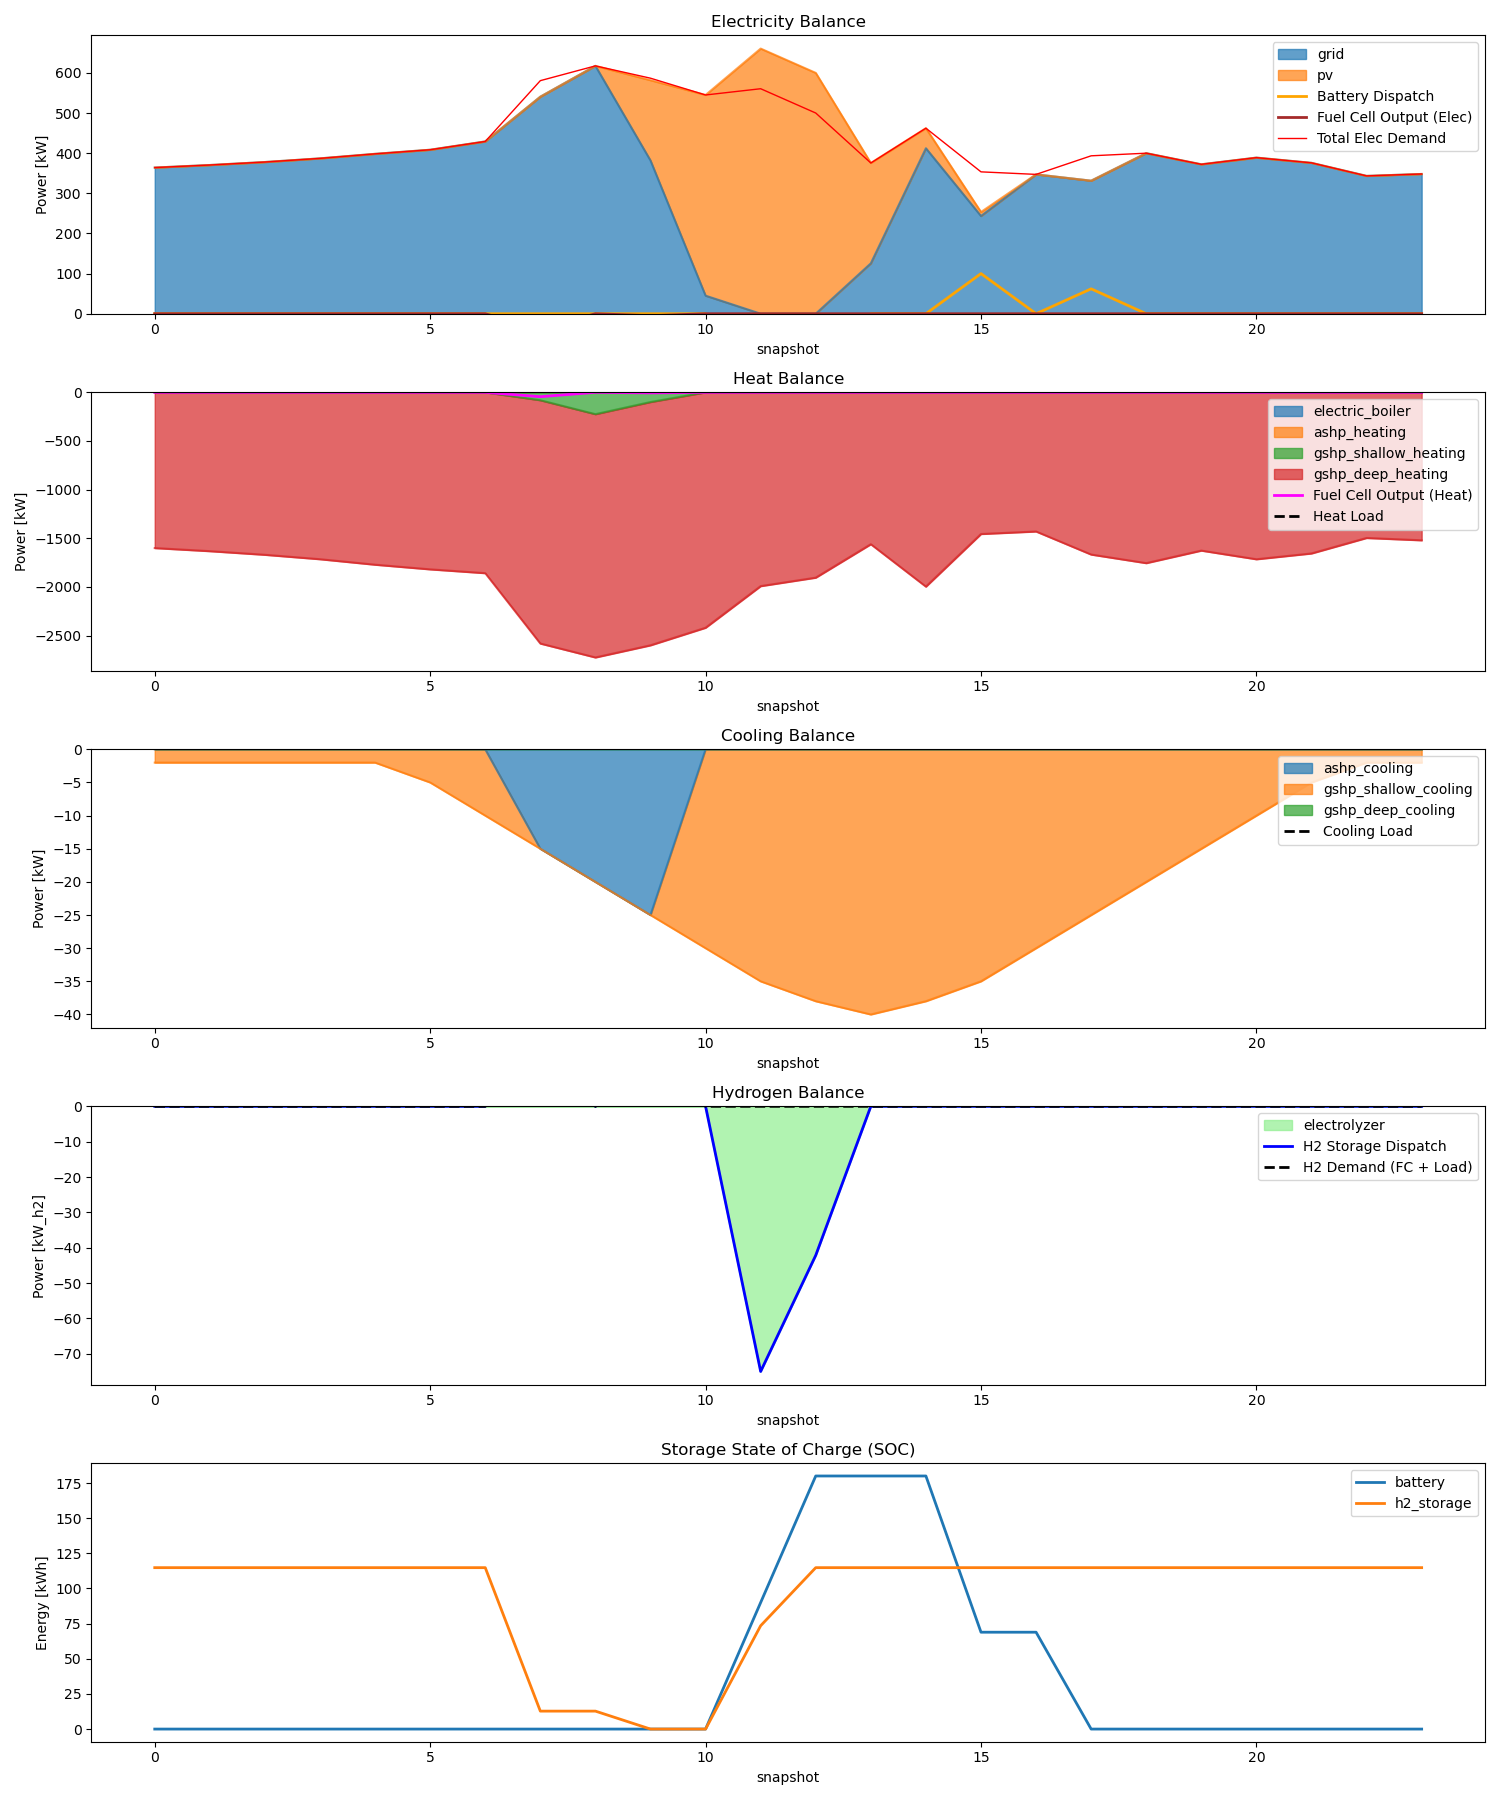
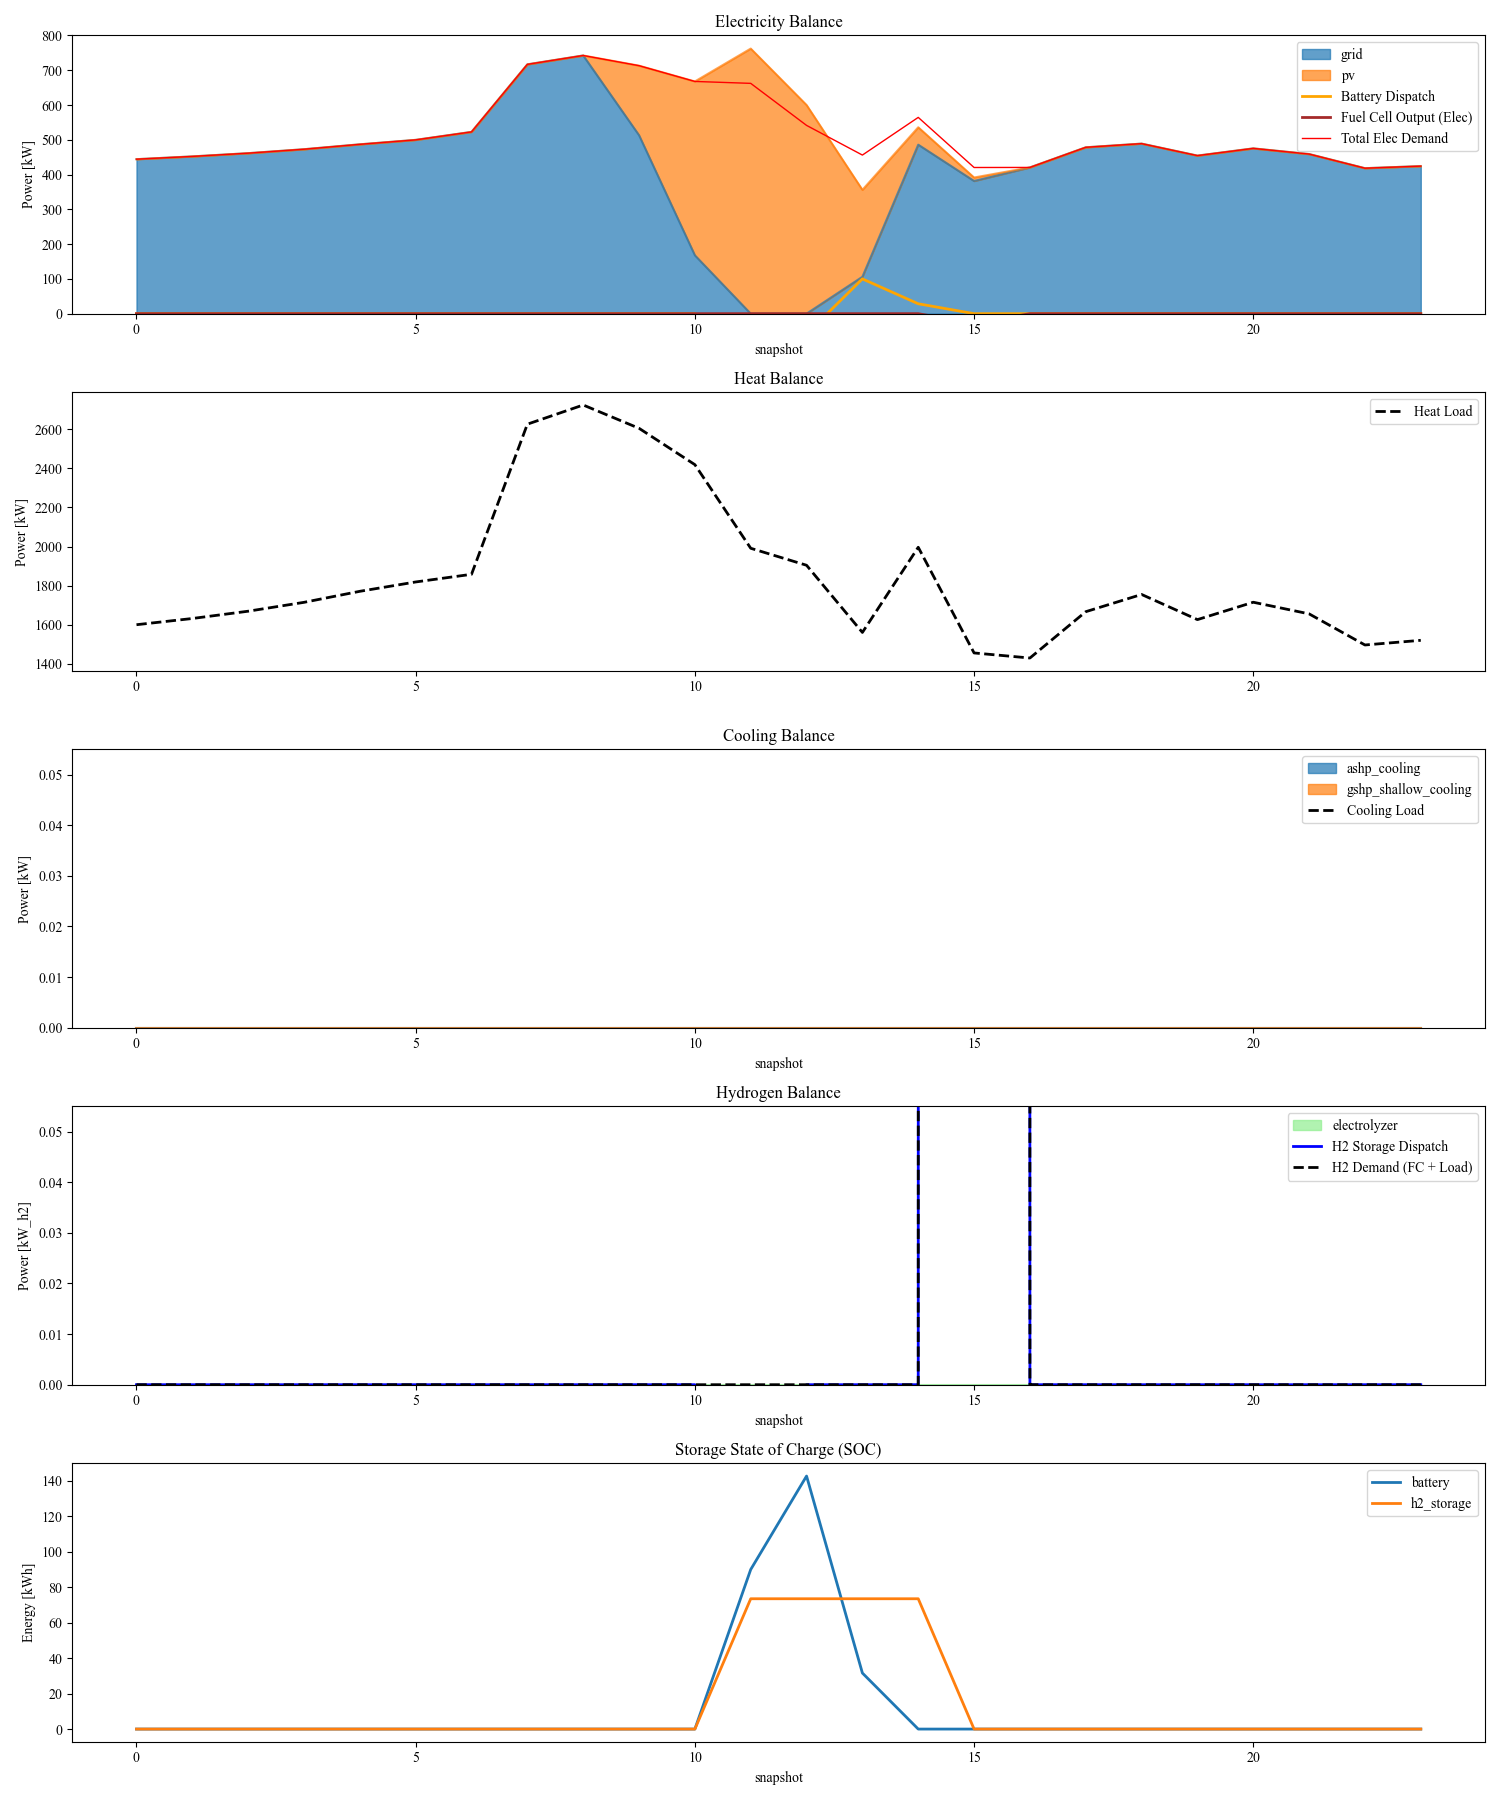
修改bug，总结工况

diff --git a/ies_simulation.py b/ies_simulation.py
@@ -170,14 +170,52 @@ class IESModel:
                 print(f"All optimization attempts failed: {e}")
         return success
 
+    def get_all_results(self):
+        """
+        汇总所有设备的运行结果
+        :return: 包含多个结果 DataFrame 的字典
+        """
+        results = {}
+        
+        # 1. 负荷数据
+        results['Loads'] = self.n.loads_t.p
+        
+        # 2. 发电机数据 (PV, Grid)
+        results['Generators'] = self.n.generators_t.p
+        
+        # 3. 链路数据 (EB, HP, Ely, FC)
+        # 包含输入 p0 和输出 p1 (以及 FC 的 p2)
+        links_res = pd.concat([
+            self.n.links_t.p0.add_suffix('_input'),
+            self.n.links_t.p1.add_suffix('_output')
+        ], axis=1)
+        if not self.n.links_t.p2.empty:
+            links_res = pd.concat([links_res, self.n.links_t.p2.add_suffix('_output2')], axis=1)
+        results['Links'] = links_res
+        
+        # 4. 储能数据 (Battery, H2 Storage)
+        results['Storage_Units'] = self.n.storage_units_t.p
+        results['Storage_SOC'] = self.n.storage_units_t.state_of_charge
+        
+        # 5. 母线电价 (边际成本)
+        results['Bus_Marginal_Prices'] = self.n.buses_t.marginal_price
+        
+        return results
+
     def plot_results(self, save_path='ies_results.png', show=True):
+        # 设置全局字体为 Times New Roman
+        plt.rcParams['font.family'] = 'Times New Roman'
+        plt.rcParams['text.color'] = 'black'
+        plt.rcParams['axes.labelcolor'] = 'black'
+        plt.rcParams['xtick.color'] = 'black'
+        plt.rcParams['ytick.color'] = 'black'
+        
         fig = plt.figure(figsize=(15, 18))
         
         # 子图 1: 电力平衡
-        # ... (保持之前的绘图代码)
         plt.subplot(5, 1, 1)
         if not self.n.generators_t.p.empty:
-            self.n.generators_t.p.plot.area(ax=plt.gca(), alpha=0.7)
+            self.n.generators_t.p.clip(lower=0).plot.area(ax=plt.gca(), alpha=0.7)
         if not self.n.storage_units_t.p.empty and 'battery' in self.n.storage_units_t.p.columns:
             self.n.storage_units_t.p['battery'].plot(ax=plt.gca(), color='orange', label='Battery Dispatch', linewidth=2)
         if not self.n.links_t.p1.empty and 'fuel_cell' in self.n.links_t.p1.columns:
@@ -203,15 +241,23 @@ class IESModel:
         if not self.n.links_t.p1.empty:
             # 电锅炉和各类热泵制热
             hp_heating_cols = [f"{prefix}_heating" for prefix in ['ashp', 'gshp_shallow', 'gshp_deep']]
+            # 增加对 p1 实际内容的检查
             cols = [c for c in (['electric_boiler'] + hp_heating_cols) if c in self.n.links_t.p1.columns]
             if cols:
-                self.n.links_t.p1[cols].plot.area(ax=plt.gca(), alpha=0.7)
+                # 获取 p1 数据并过滤极微小负值
+                heat_output_p1 = self.n.links_t.p1[cols].clip(lower=0)
+                if not heat_output_p1.empty and heat_output_p1.sum().sum() > 0.1:
+                    heat_output_p1.plot.area(ax=plt.gca(), alpha=0.7)
         
-        # 增加燃料电池产热
+        # 增加燃料电池产热 (p2)
         if not self.n.links_t.p2.empty and 'fuel_cell' in self.n.links_t.p2.columns:
-            self.n.links_t.p2['fuel_cell'].plot(ax=plt.gca(), color='magenta', label='Fuel Cell Output (Heat)', linewidth=2)
+            fc_heat = self.n.links_t.p2['fuel_cell'].clip(lower=0)
+            if fc_heat.sum() > 0.1:
+                fc_heat.plot(ax=plt.gca(), color='magenta', label='Fuel Cell Output (Heat)', linewidth=2)
 
-        plt.plot(self.n.loads_t.p_set['heat_load'], 'k--', label='Heat Load', linewidth=2)
+        # 始终绘制负荷线
+        heat_load = self.n.loads_t.p['heat_load'] if 'heat_load' in self.n.loads_t.p.columns else self.data['heat_load']
+        plt.plot(heat_load, 'k--', label='Heat Load', linewidth=2)
         plt.title("Heat Balance")
         plt.ylabel("Power [kW]")
         plt.legend(loc='upper right')
@@ -221,7 +267,7 @@ class IESModel:
         hp_cooling_cols = [f"{prefix}_cooling" for prefix in ['ashp', 'gshp_shallow', 'gshp_deep']]
         cols = [c for c in hp_cooling_cols if c in self.n.links_t.p1.columns]
         if not self.n.links_t.p1.empty and cols:
-            self.n.links_t.p1[cols].plot.area(ax=plt.gca(), alpha=0.7, label='HP Cooling Output')
+            self.n.links_t.p1[cols].clip(lower=0).plot.area(ax=plt.gca(), alpha=0.7, label='HP Cooling Output')
         plt.plot(self.n.loads_t.p_set['cool_load'], 'k--', label='Cooling Load', linewidth=2)
         plt.title("Cooling Balance")
         plt.ylabel("Power [kW]")
@@ -230,7 +276,7 @@ class IESModel:
         # 子图 4: 氢能平衡
         plt.subplot(5, 1, 4)
         if not self.n.links_t.p1.empty and 'electrolyzer' in self.n.links_t.p1.columns:
-            self.n.links_t.p1[['electrolyzer']].plot.area(ax=plt.gca(), alpha=0.7, color='lightgreen', label='Electrolyzer Output (H2)')
+            self.n.links_t.p1[['electrolyzer']].clip(lower=0).plot.area(ax=plt.gca(), alpha=0.7, color='lightgreen', label='Electrolyzer Output (H2)')
         if not self.n.storage_units_t.p.empty and 'h2_storage' in self.n.storage_units_t.p.columns:
             self.n.storage_units_t.p['h2_storage'].plot(ax=plt.gca(), color='blue', label='H2 Storage Dispatch', linewidth=2)
         

diff --git a/ies_app.py b/ies_app.py
@@ -3,6 +3,7 @@ import pandas as pd
 import numpy as np
 import matplotlib.pyplot as plt
 import graphviz
+import io
 from ies_simulation import IESModel
 
 # 设置页面配置
@@ -44,9 +45,10 @@ if st.sidebar.checkbox("氢储能 (H2 Storage)"): selected_devices.append('h2_st
 
 st.sidebar.markdown("---")
 # 作者信息
+st.sidebar.image("https://github.com/gwyxjtu.png", width=100)
 st.sidebar.markdown("""
 ### 👨💻 作者信息 (Author)
-**作者**: 郭先生 (Mr. Guo)  
+**作者**: [gwyxjtu](https://github.com/gwyxjtu)  
 **项目**: 综合能源系统 (IES) 仿真平台  
 **技术栈**: PyPSA, Streamlit, Graphviz  
 **开源协议**: MIT
@@ -170,6 +172,10 @@ dot = graphviz.Digraph(comment='IES Topology')
 # 改为 TB (Top to Bottom) 布局，配合横向母线实现横向分布
 dot.attr(rankdir='TB', size='12,6!', ratio='fill')
 dot.attr(nodesep='0.5', ranksep='0.5')
+# 设置全局字体为 Times-Roman (即 Times New Roman) 且颜色为黑色
+dot.attr(fontname='Times-Roman', fontcolor='black')
+dot.attr('node', fontname='Times-Roman', fontcolor='black')
+dot.attr('edge', fontname='Times-Roman', fontcolor='black')
 
 # 计算各母线连接的组件数量以确定宽度
 elec_conn = 1  # 基础负载
@@ -208,10 +214,10 @@ w_h2 = str(max(2.5, h2_conn * 1.0))
 
 # 定义母线节点 (横向线条形状 - Horizontal Busbar)
 bus_style = {"shape": "box", "height": "0.04", "style": "filled", "fixedsize": "true", "penwidth": "0", "labelloc": "t", "fontsize": "12"}
-dot.node('Bus_Elec', 'Elec Bus', width=w_elec, fillcolor='blue', fontcolor='blue', **bus_style)
-dot.node('Bus_Heat', 'Heat Bus', width=w_heat, fillcolor='red', fontcolor='red', **bus_style)
-dot.node('Bus_Cool', 'Cool Bus', width=w_cool, fillcolor='cyan', fontcolor='cyan', **bus_style)
-dot.node('Bus_H2', 'H2 Bus', width=w_h2, fillcolor='green', fontcolor='green', **bus_style)
+dot.node('Bus_Elec', 'Elec Bus', width=w_elec, fillcolor='blue', fontcolor='black', **bus_style)
+dot.node('Bus_Heat', 'Heat Bus', width=w_heat, fillcolor='red', fontcolor='black', **bus_style)
+dot.node('Bus_Cool', 'Cool Bus', width=w_cool, fillcolor='cyan', fontcolor='black', **bus_style)
+dot.node('Bus_H2', 'H2 Bus', width=w_h2, fillcolor='green', fontcolor='black', **bus_style)
 
 # 定义负载节点
 dot.node('Load_Elec', 'Elec Load', shape='none', image=os.path.join(icon_dir, "eleload.png"), labelloc='b')
@@ -275,6 +281,8 @@ st.info("💡 提示：在左侧勾选设备，拓扑图将实时更新。")
 
 st.markdown("---")
 st.subheader("📊 数据预览 (负荷 & 电价)")
+plt.rcParams['font.family'] = 'Times New Roman'
+plt.rcParams['text.color'] = 'black'
 fig_load, ax_load = plt.subplots(figsize=(12, 5))
 ax_load.plot(input_data['elec_load'], label='Elec Load [kW]', color='blue', linewidth=2)
 ax_load.plot(input_data['heat_load'], label='Heat Load [kW]', color='red', linestyle='--')
@@ -378,12 +386,36 @@ if st.button("🚀 开始仿真", type="primary"):
             except Exception as e:
                 st.error(f"工况统计解析失败: {e}")
 
-            # --- 2. 显示结果图 ---
+            # --- 2. 导出 Excel 结果 ---
             st.markdown("---")
-            st.subheader("📈 仿真运行结果可视化")
-            fig = model.plot_results(save_path='temp_results.png', show=False)
-            st.pyplot(fig)
-            st.subheader("📋 运行指标")
+            st.subheader("📥 下载运行结果 (Export Results)")
+            
+            try:
+                # 获取所有结果
+                all_res = model.get_all_results()
+                
+                # 创建内存中的 Excel 文件
+                output = io.BytesIO()
+                with pd.ExcelWriter(output, engine='openpyxl') as writer:
+                    for sheet_name, df in all_res.items():
+                        if not df.empty:
+                            df.to_excel(writer, sheet_name=sheet_name)
+                
+                excel_data = output.getvalue()
+                
+                st.download_button(
+                    label="📂 点击下载全天运行数据 (Excel)",
+                    data=excel_data,
+                    file_name="ies_simulation_results.xlsx",
+                    mime="application/vnd.openxmlformats-officedocument.spreadsheetml.sheet",
+                    type="primary"
+                )
+                st.success("结果已汇总，点击上方按钮即可下载。")
+                
+            except Exception as e:
+                st.error(f"Excel 导出失败: {e}")
+
+            # 显示关键指标
             try:
                 total_cost = model.n.objective
                 st.metric("总运行成本", f"{total_cost:.2f} 元")
@@ -399,4 +431,4 @@ if st.button("🚀 开始仿真", type="primary"):
             st.error("仿真失败，请检查模型约束或求解器设置。")
 
 st.markdown("---")
-st.caption("© 2026 综合能源系统 (IES) 仿真平台 | 由 郭先生 开发 | Powered by PyPSA & Streamlit")
+st.caption("© 2026 综合能源系统 (IES) 仿真平台 | 由 [gwyxjtu](https://github.com/gwyxjtu) 开发 | Powered by PyPSA & Streamlit")
